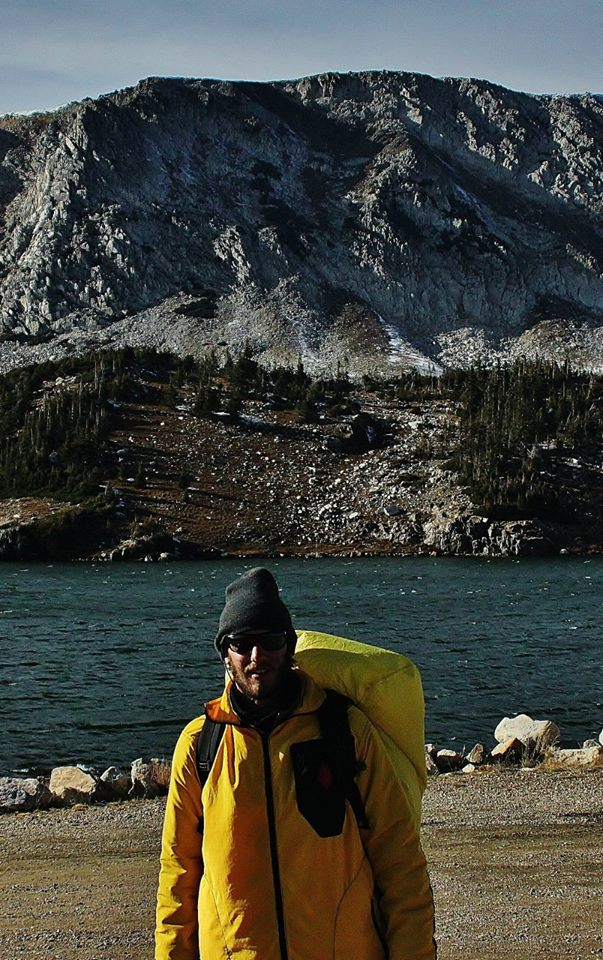
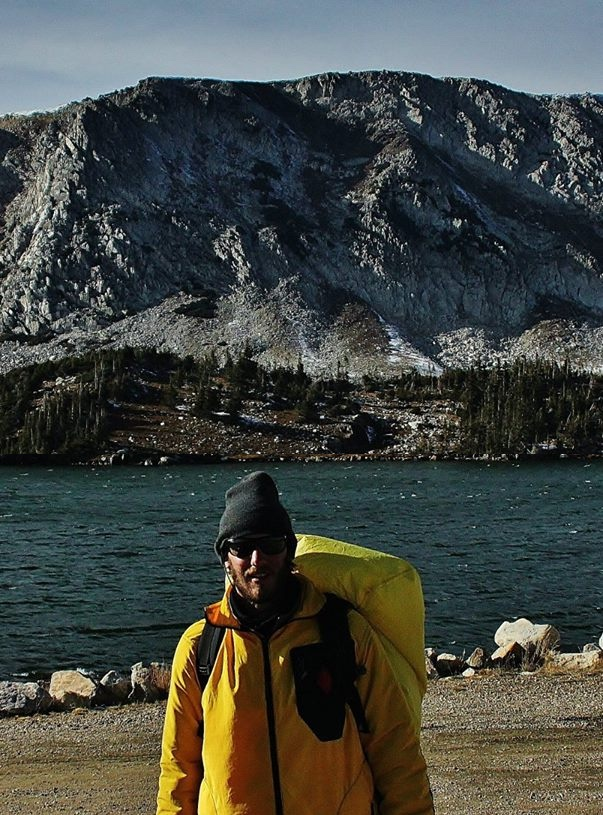
Minor tweak gallery

diff --git a/_layouts/people_layout.html b/_layouts/people_layout.html
@@ -158,8 +158,8 @@
                 {% for person in alumni  %} <!-- iterate through the matching alumni -->
                     <div class="col-xs-6 col-sm-3">
                         <h4 class='page-header name-header'>{{ person.name }}</h4>
-                        <div class="thumbnail" style="object-fit:cover">
-                            <img src="{{site.baseurl}}/img/bio_img/{{person.photo}}" style='height:100%'/>
+                        <div class="thumbnail">
+                            <img src="{{site.baseurl}}/img/bio_img/{{person.photo}}" style='height:100%; width:200px; object-fit: cover;'/>
                         </div>
                         {% if person.website %}
                         <a href="{{person.website}}">Website</a> |
